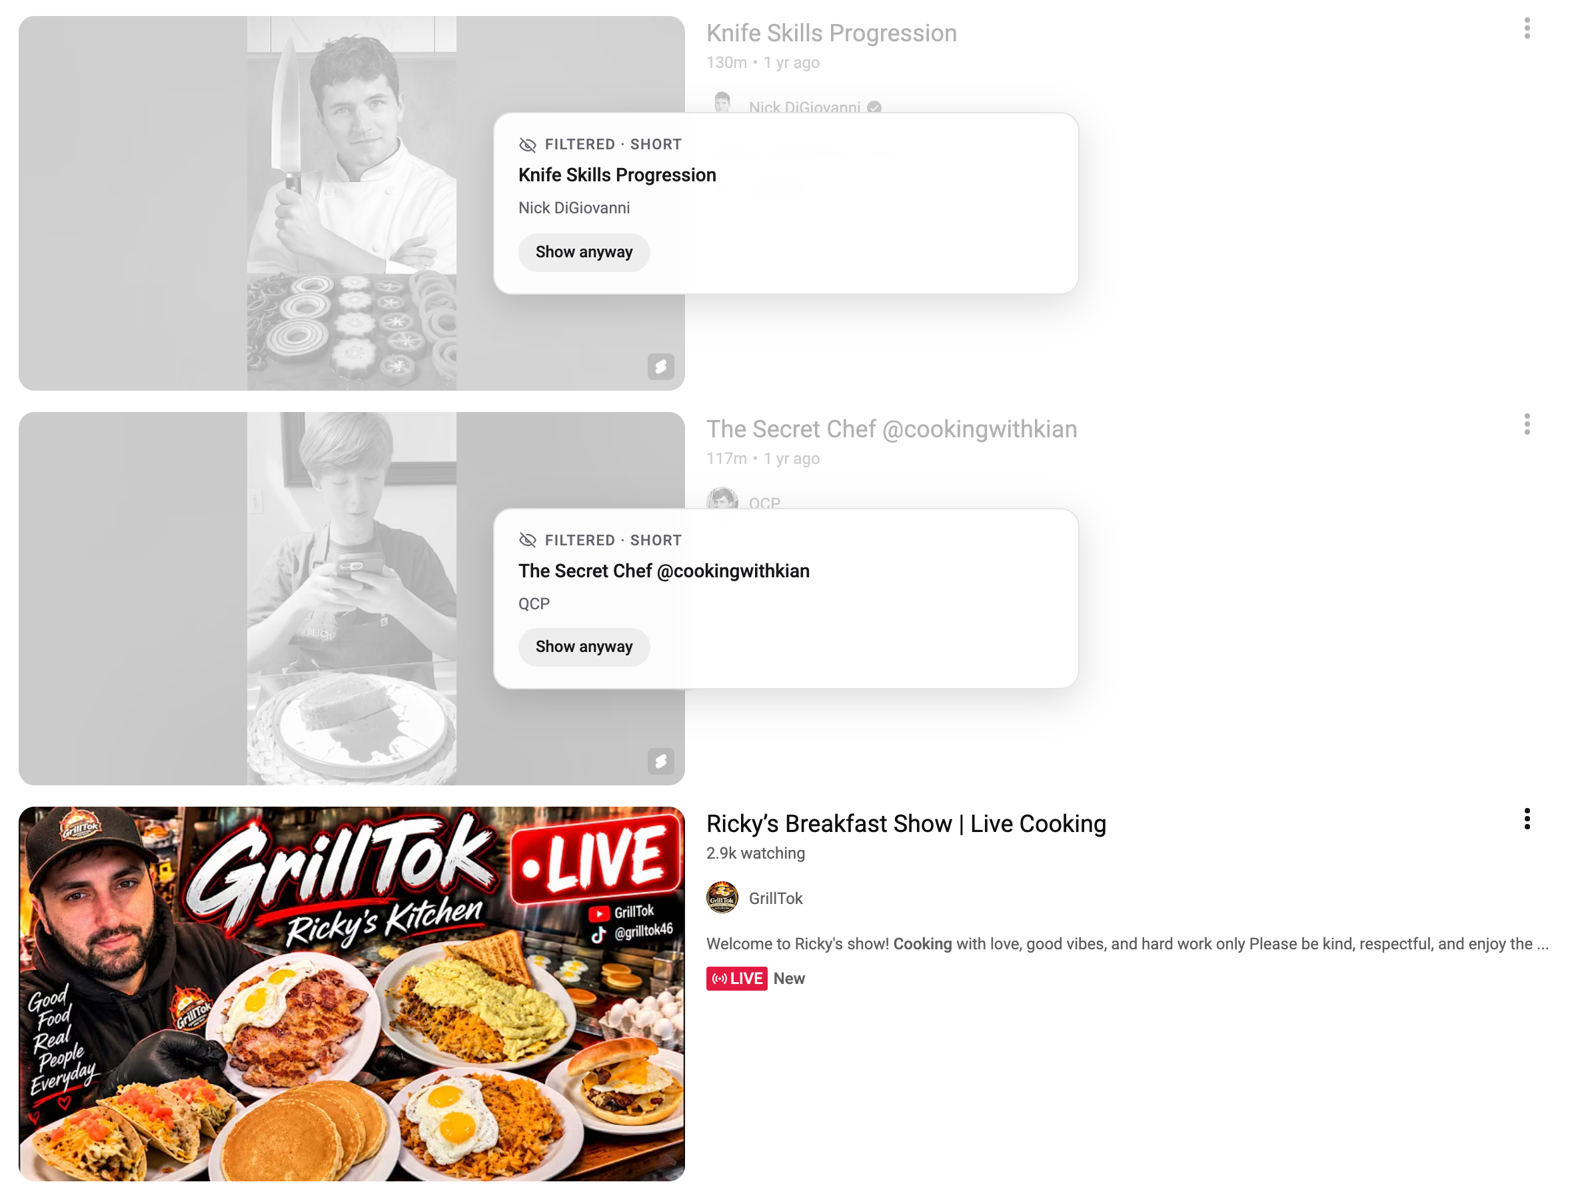
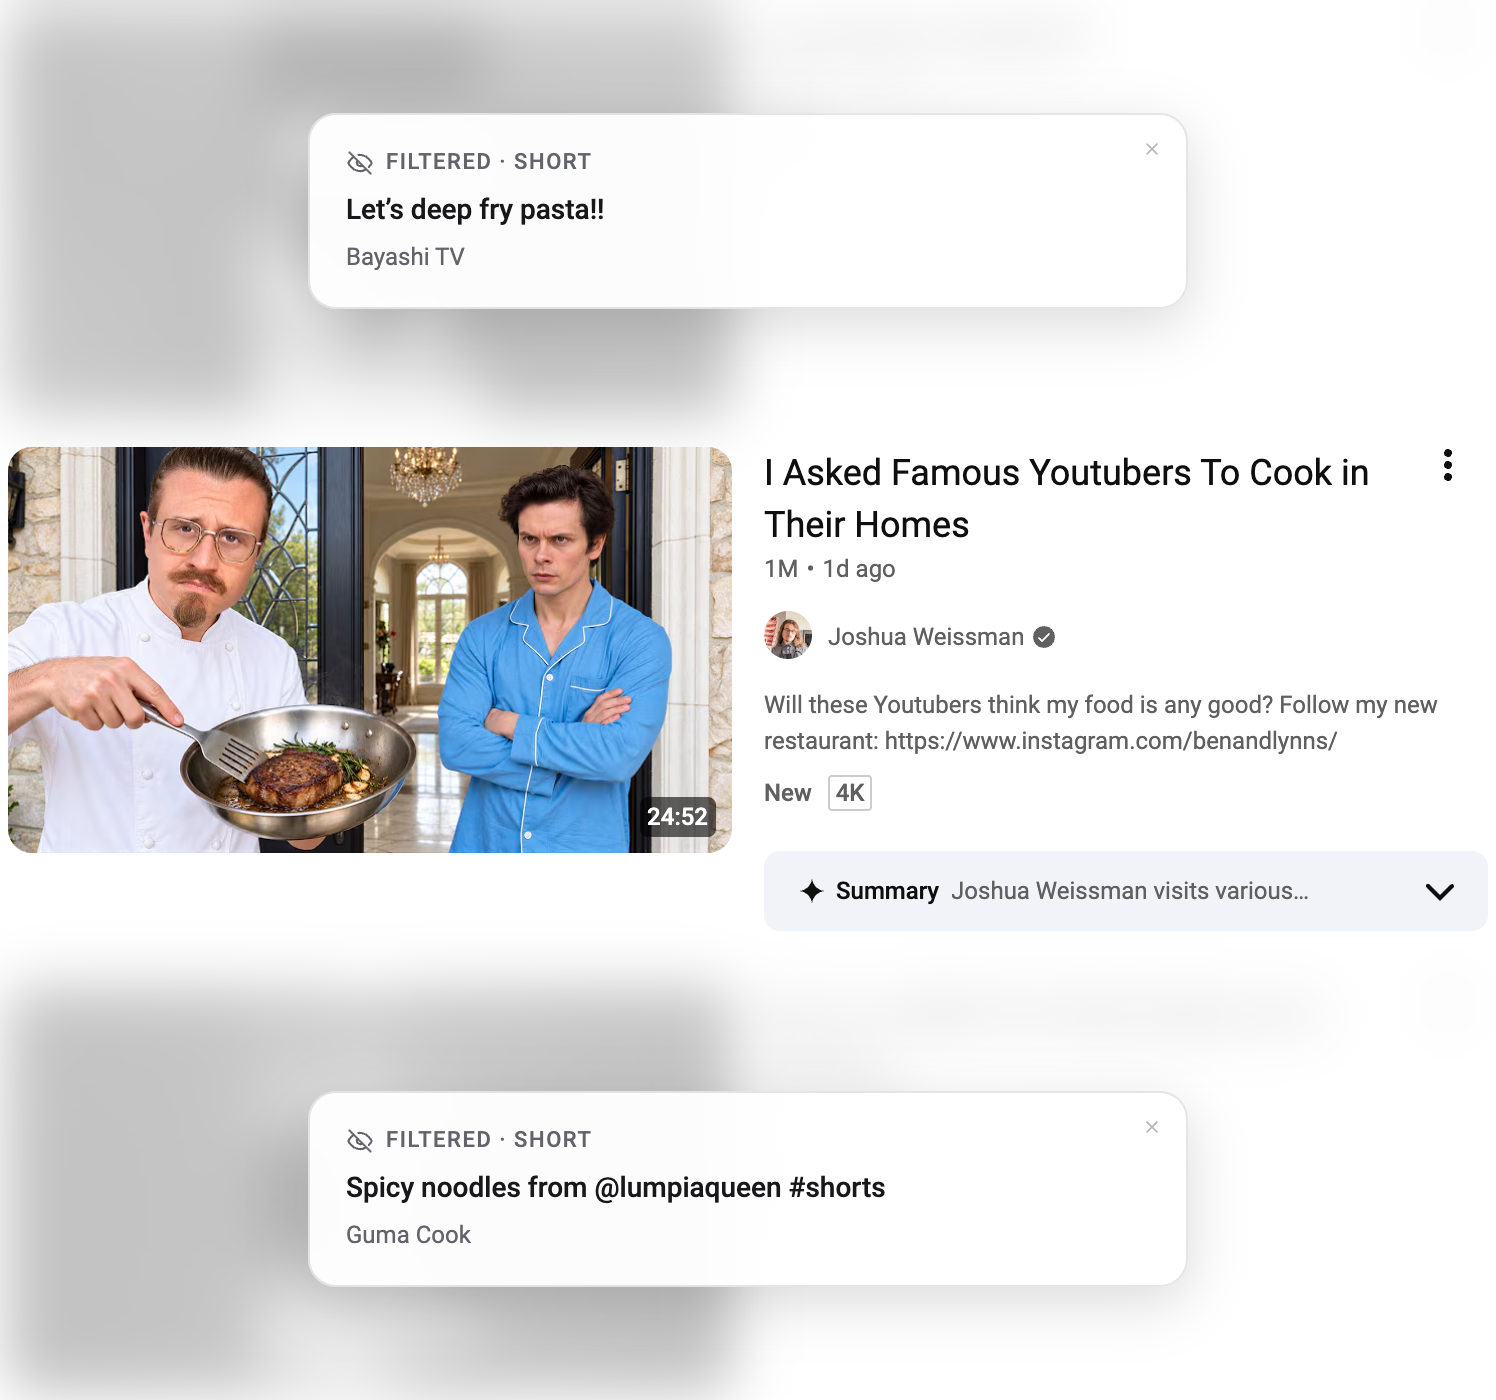
Retake the YouTube screenshot with blurred feed items

diff --git a/README.md b/README.md
@@ -6,14 +6,14 @@ A Chrome extension that blocks content, not sites. It reads the video, post or a
 
 ## What it does
 
-- **YouTube:** judges each video. Useful ones play, junk gets blocked. Irrelevant tiles in feeds and search collapse. Shorts are always hidden.
-- **X:** judges each post. Irrelevant posts collapse to one line. Ads are always hidden. 2 check-ins a day, 15 minutes each.
+- **YouTube:** judges each video. Useful ones play, junk gets blocked. Irrelevant tiles in feeds and search get blurred out. Shorts are always hidden.
+- **X:** judges each post. Irrelevant posts get blurred out behind a one-line note. Ads are always hidden. 2 check-ins a day, 15 minutes each.
 - **Everything else:** Reddit, LinkedIn, articles and any other page get judged too.
 - **Time:** the longer you stay, the stricter it gets.
 - **Appeals:** one shot. Give a specific reason and you get 15 minutes. Give an excuse and you get "Fuck you." and a lock until midnight.
 - **Fun and music:** your hobbies are never blocked on content. Music is never blocked.
 
-<img src="docs/youtube-filtered.png" width="560" alt="YouTube search: Shorts collapsed, a cooking video kept">
+<img src="docs/youtube-filtered.png" width="560" alt="YouTube search: Shorts blurred out, a cooking video kept">
 
 ## Setup
 
